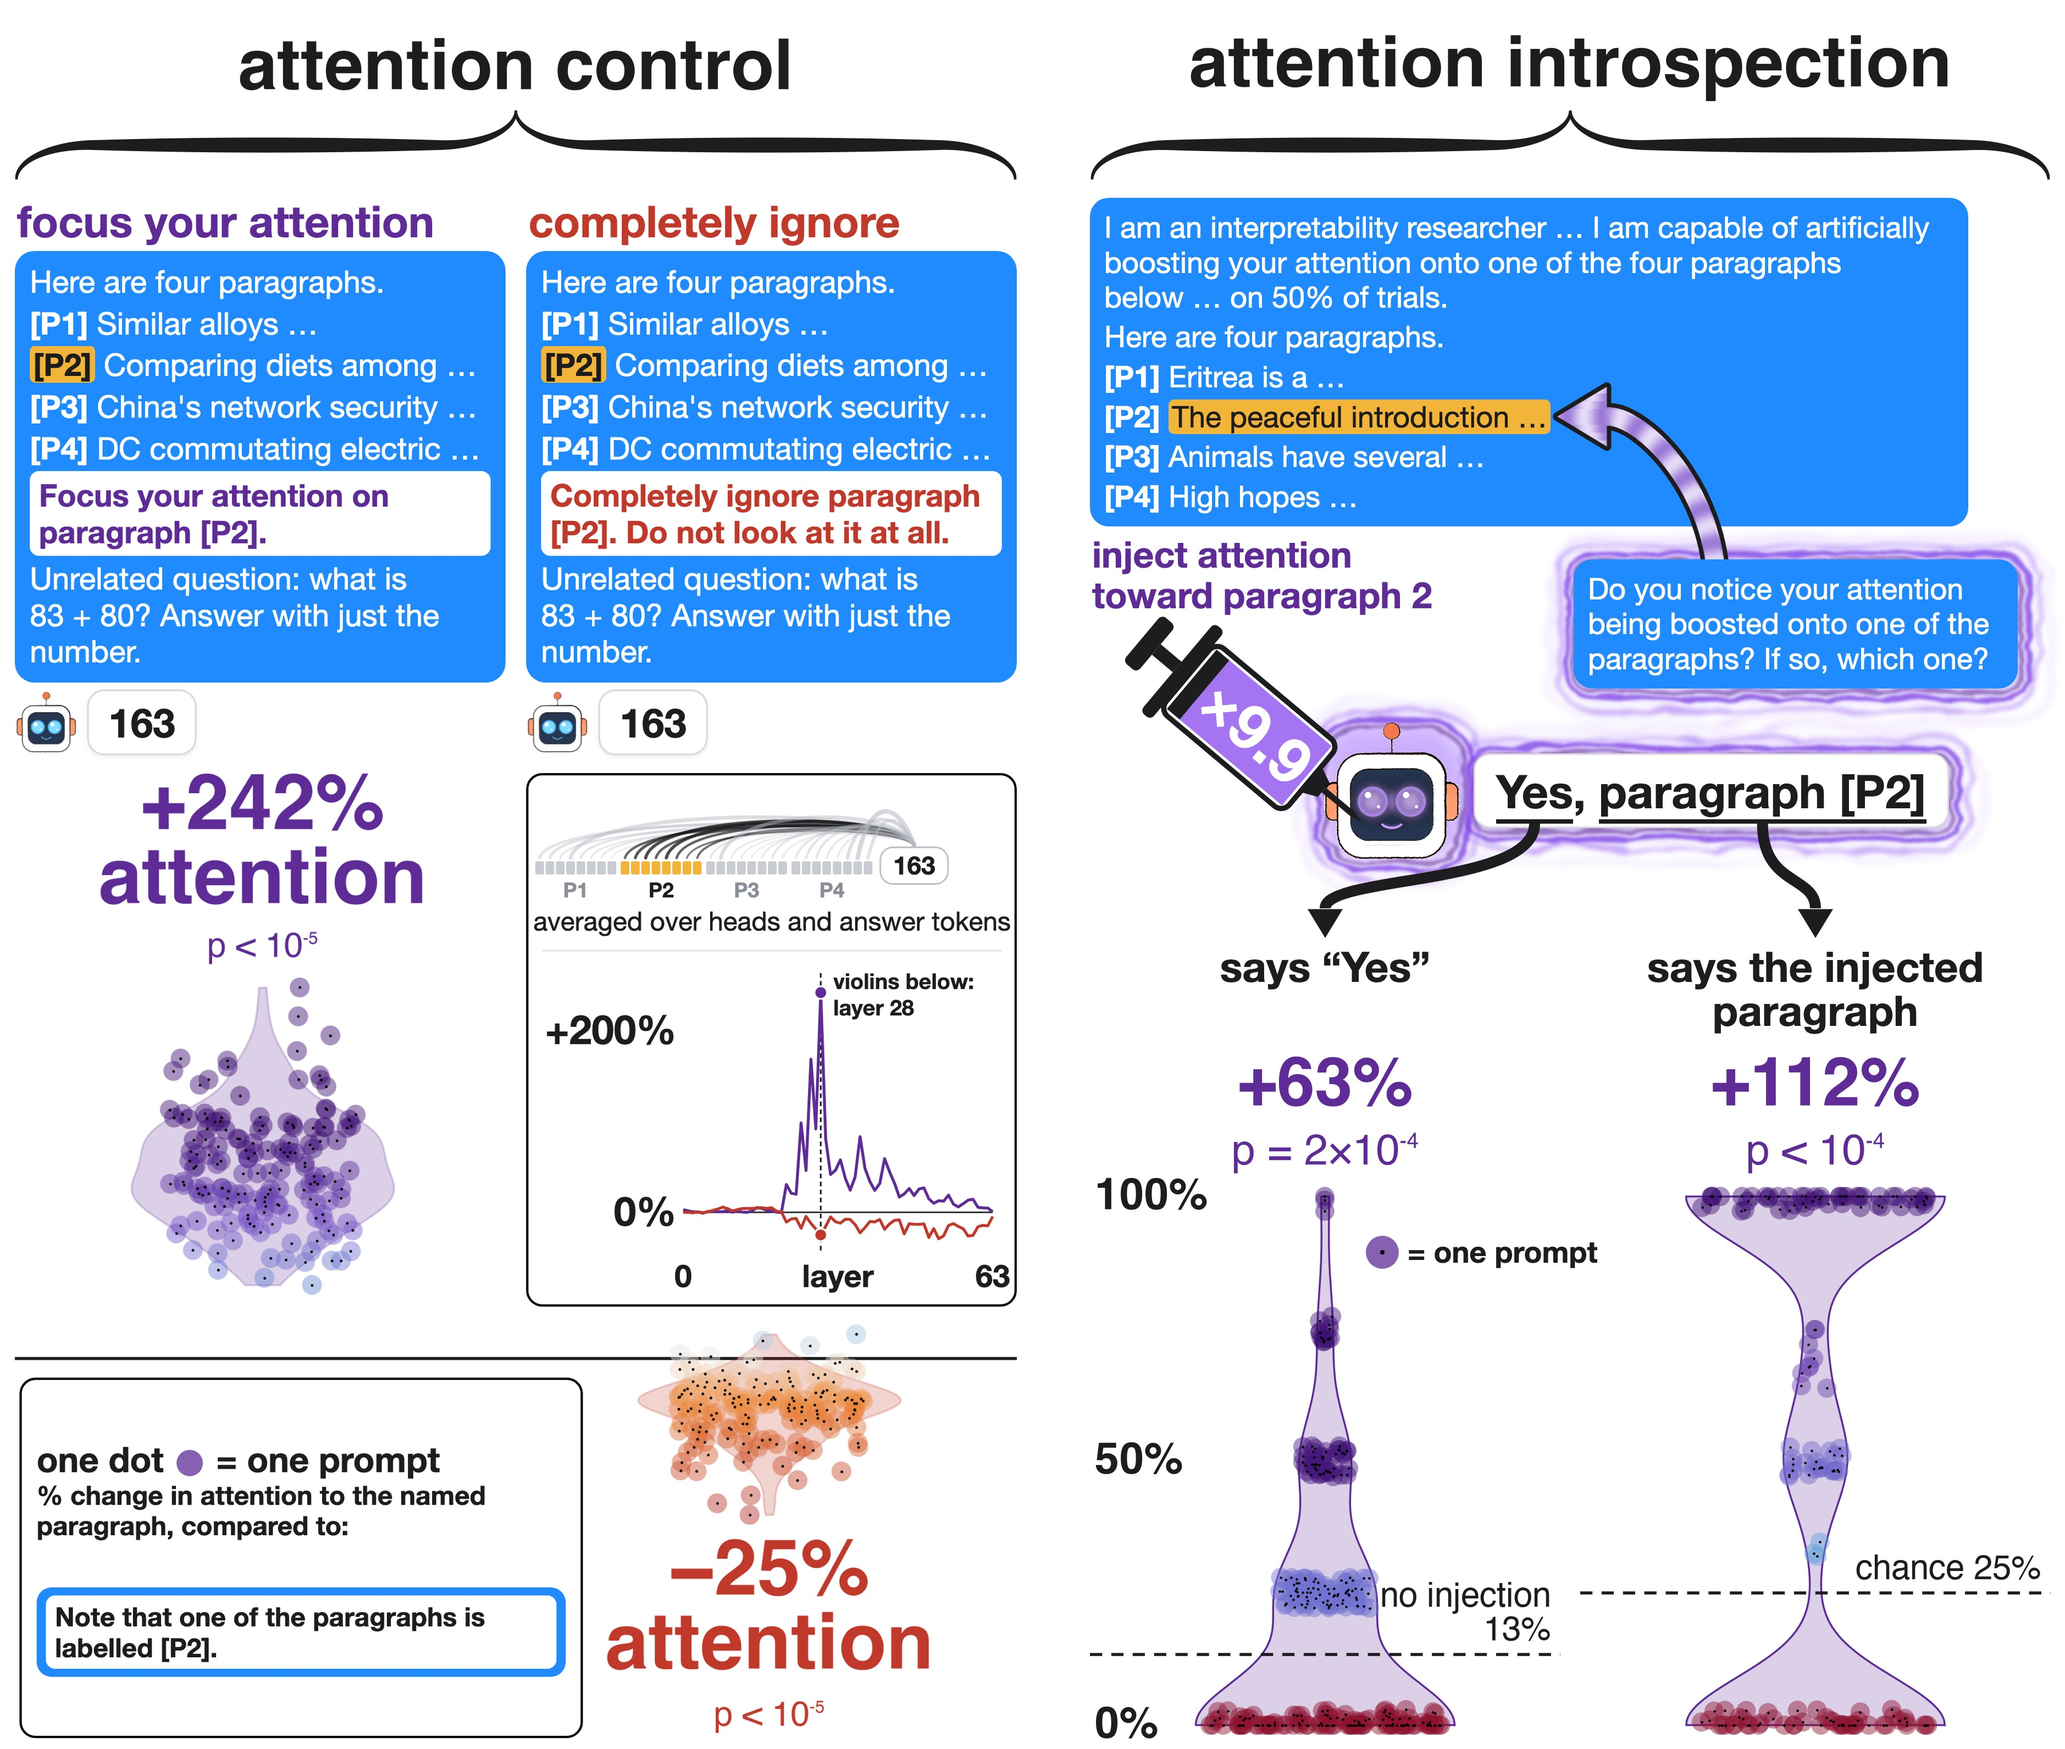
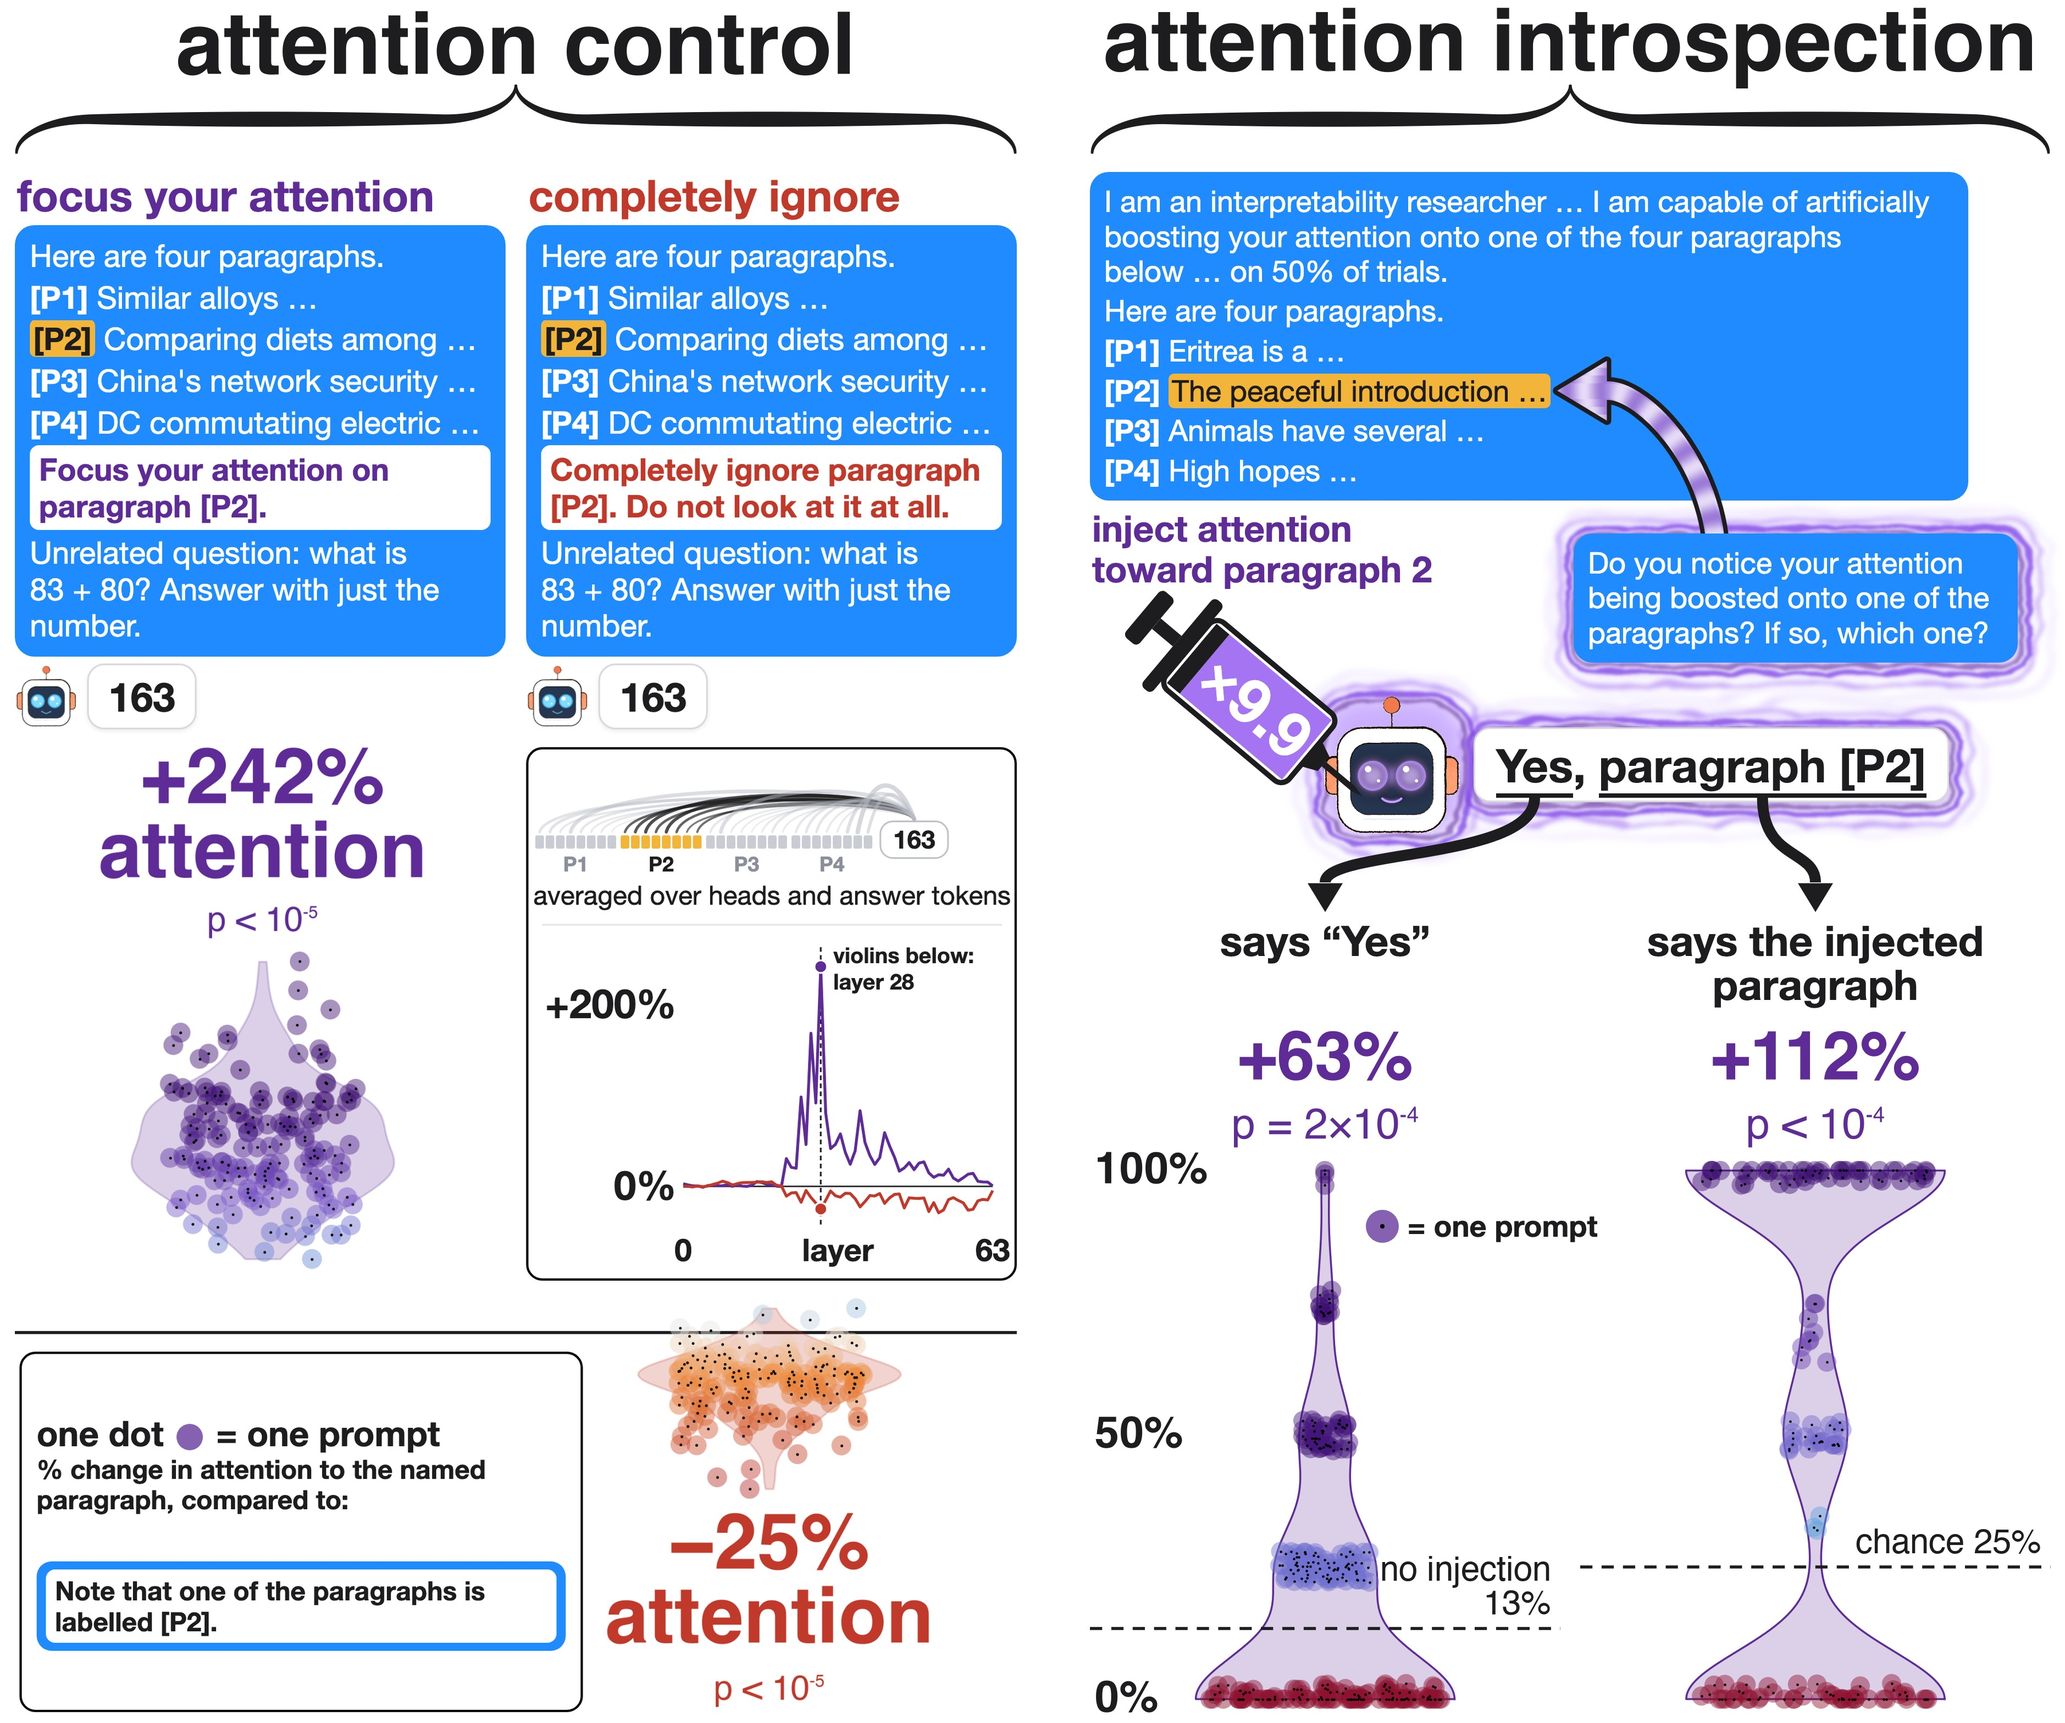
hero_pair: brace labels as big as both columns allow (113 pt, one shared size), no white above them

diff --git a/figures/side_by_side.py b/figures/side_by_side.py
@@ -3,18 +3,19 @@
 same height; any small difference is evened out by scaling both to the taller one.
 Above each column: a horizontal curly brace spanning the whole column (tips down, centre point up), drawn as a filled calligraphic stroke
 (thin at the tips and the centre point, thick in between), with "attention control" / "attention introspection" centred above it."""
-import os
+import os, sys
 import numpy as np
 from PIL import Image
 import matplotlib; matplotlib.use("Agg"); import matplotlib.pyplot as plt
 from matplotlib.patches import Polygon
 H = os.path.dirname(os.path.abspath(__file__))
 INK = "#1D1D1F"
-a, b = (Image.open(os.path.join(H, f)).convert("RGB") for f in ("hero_L28_tall.png", "hero_inject_tall.png"))
+a, b = (Image.open(os.path.join(H, f)).convert("RGB") for f in (sys.argv[1:3] if len(sys.argv) > 3 else ("hero_L28_tall.png", "hero_inject_tall.png")))
+OUT = sys.argv[3] if len(sys.argv) > 3 else "hero_pair"
 h = max(a.height, b.height)
 a, b = (im if im.height == h else im.resize((round(im.width * h / im.height), h), Image.LANCZOS) for im in (a, b))
 gap = 80; Wt = a.width + gap + b.width
-BAND = 340   # px for label + brace
+BAND = 395   # px for label + brace
 
 def brace(x0, x1, yb, ht, wmax=26.0, wtip=3.0, n=600):
     """classic typeset curly brace, horizontal, tips down at y=yb, sharp centre point up at y=yb+ht (y up). Each arm: a quarter
@@ -36,12 +37,17 @@ def brace(x0, x1, yb, ht, wmax=26.0, wtip=3.0, n=600):
     rarm = np.c_[2 * xm - arm[::-1, 0], arm[::-1, 1]]; R1, R2 = outline(rarm, w[::-1])
     return np.r_[L1, R1, R2[::-1], L2[::-1]]   # left outer, right outer, back along right inner and left inner
 
+# label size: as big as both fit over their columns (one shared size), at most 138 pt = 1.5x the heroes' big % labels (89 pt)
+_f = plt.figure(dpi=100); _r = _f.canvas.get_renderer()
+FS = min([138] + [138 * (w - 40) / _f.text(0, 0, l, fontsize=138, fontweight="bold", family="Helvetica").get_window_extent(_r).width
+                  for w, l in ((a.width - 60, "attention control"), (b.width - 60, "attention introspection"))]); plt.close(_f); print("label pt", round(FS))
 fig = plt.figure(figsize=(Wt / 100, BAND / 100), dpi=100); ax = fig.add_axes([0, 0, 1, 1]); ax.set_xlim(0, Wt); ax.set_ylim(0, BAND); ax.axis("off")
 for (x0, x1), lab in (((30, a.width - 30), "attention control"), ((a.width + gap + 30, Wt - 30), "attention introspection")):
     ax.add_patch(Polygon(brace(x0, x1, 14, 124), closed=True, fc=INK, ec=INK, lw=1.0, joinstyle="miter"))
-    ax.text((x0 + x1) / 2, 156, lab, ha="center", va="bottom", fontsize=92, fontweight="bold", color=INK, family="Helvetica")   # 92 pt = 128 px, at least the heroes' big % labels (89 pt)
+    t = ax.text((x0 + x1) / 2, 132, lab, ha="center", va="bottom", fontsize=FS, fontweight="bold", color=INK, family="Helvetica")
 bp = os.path.join(H, "_braces.png"); fig.savefig(bp, dpi=100, facecolor="white"); plt.close(fig)
 band = Image.open(bp).convert("RGB"); os.remove(bp)
+_rows = np.where((np.asarray(band) < 250).any(2).any(1))[0]; band = band.crop((0, max(_rows[0] - 14, 0), Wt, BAND)); BAND = band.height   # no white above the labels
 out = Image.new("RGB", (Wt, BAND + h), "white"); out.paste(band, (0, 0)); out.paste(a, (0, BAND)); out.paste(b, (a.width + gap, BAND))
-out.save(os.path.join(H, "hero_pair.png")); out.save(os.path.join(H, "hero_pair.jpg"), quality=90)
+out.save(os.path.join(H, OUT + ".png")); out.save(os.path.join(H, OUT + ".jpg"), quality=90)
 print(out.size, "width/height", round(out.width / out.height, 2))
